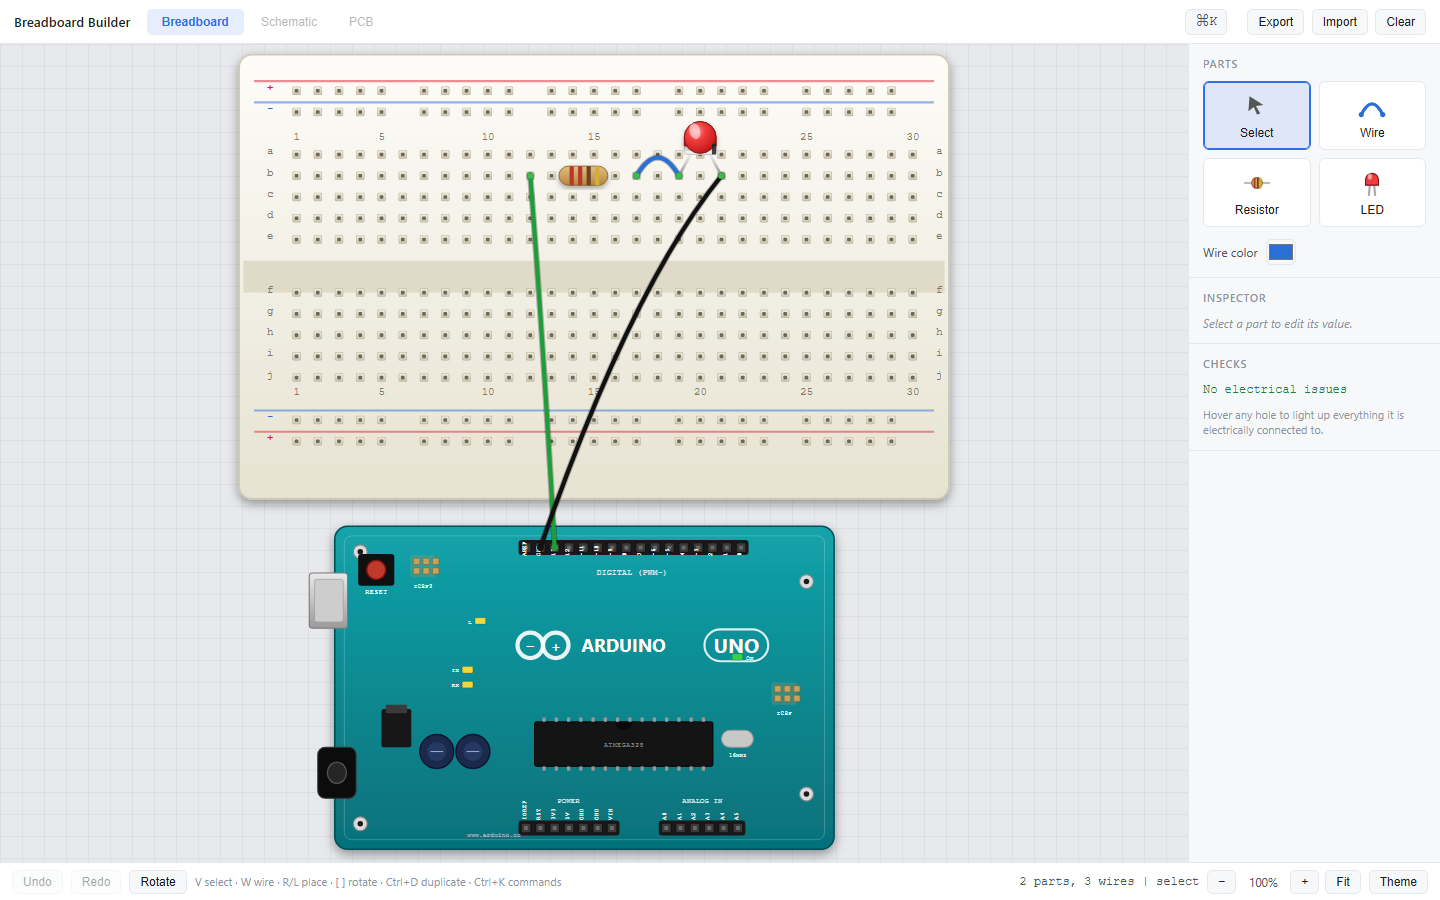
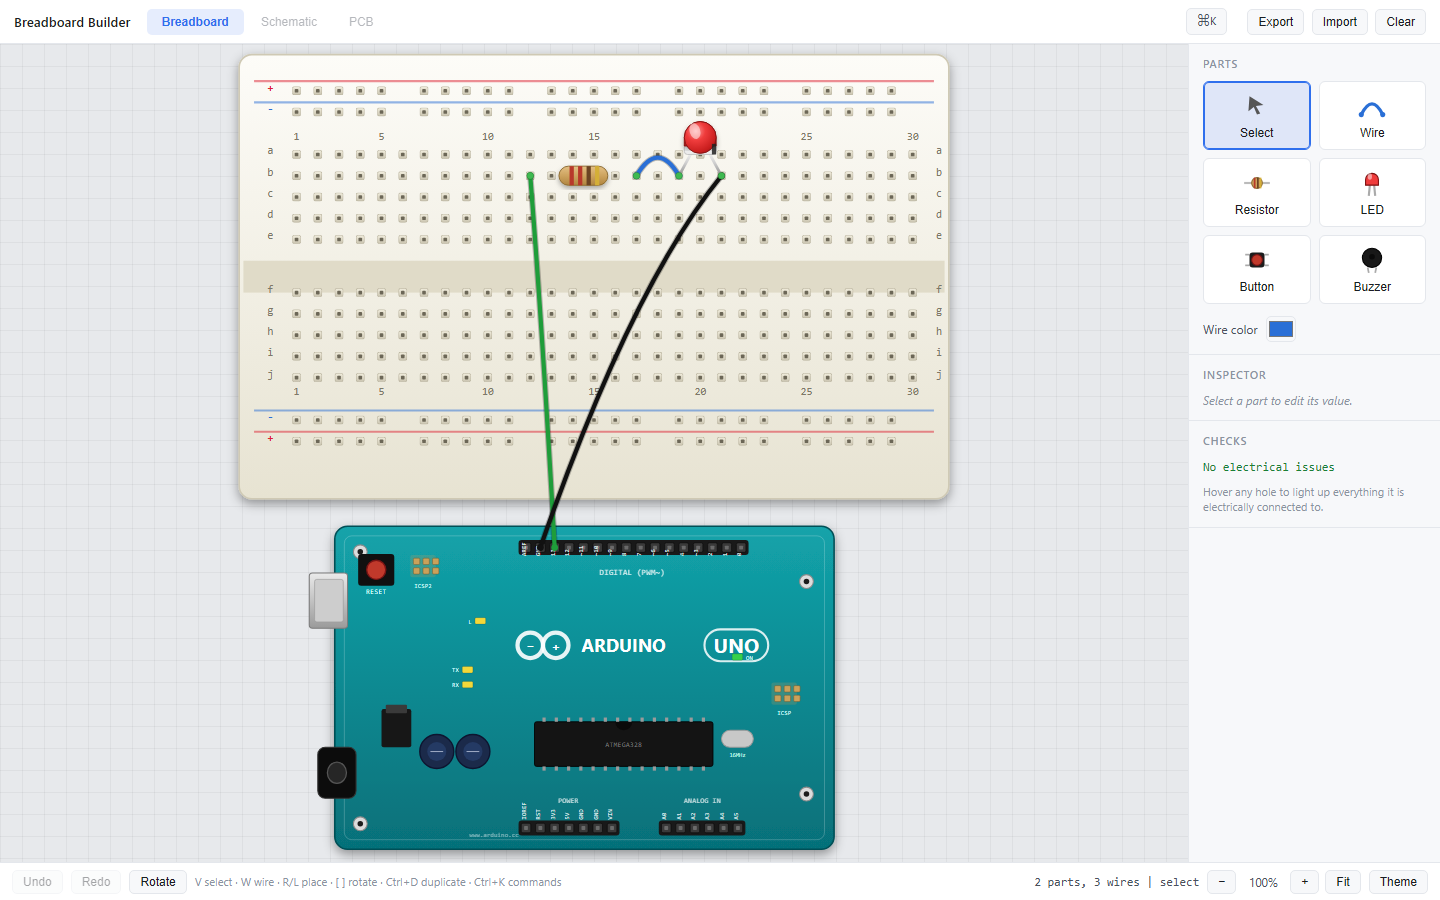
feat: N-leg parts (pushbutton + buzzer) + editable part labels
Generalizes the part model from hard-coded 2-leg to N legs, then adds the two
parts the build spec lists for a study tool, plus Fritzing-style part labels.

- N-leg architecture: a part declares legs as an array of {dc,dr} offsets from
  the anchor (rotated per placement). deriveLegs returns an array; validLegs,
  occupancy, drag, rotate, status dots, and net counting all loop over all legs.
  drawPartInto branches: axis parts (2-leg) keep the rotate-the-group draw; N-leg
  parts draw in board coords from their real leg positions (so the body follows
  the four holes, ravine included).
- Pushbutton: a 4-leg part drawn as a dark tactile switch with a red cap; its
  square body spans the four leg holes and rotates with them.
- Buzzer: a 2-leg black piezo cylinder with a + mark.
- Both wired into the bin (with icons), the B shortcut (button), and the command
  palette.
- Editable labels: every part auto-gets a label (R1, LED1, S1, BZ1), rendered
  above it on the canvas. The Inspector has a Name field to rename it live (the
  field is excluded from the inspector's rebuild signature so typing keeps focus).

Verified in a real browser: placing buzzer + button -> 4 parts, 10 connector
dots (the button shows 4), labels BZ1/LED1/R1/S1 auto-assigned, the button
rotates without error, and renaming a part to "MYBTN" updates the canvas live.
Zero console errors.

diff --git a/app.js b/app.js
@@ -218,22 +218,36 @@
   function occupied(holeId, exceptId) {
     return state.parts.some(function (p) { return p.id !== exceptId && p.legHoles.indexOf(holeId) >= 0; });
   }
+  function rotOffset(dc, dr, rot) {
+    if (rot === 1) return { dc: -dr, dr: dc };
+    if (rot === 2) return { dc: -dc, dr: -dr };
+    if (rot === 3) return { dc: dr, dr: -dc };
+    return { dc: dc, dr: dr };
+  }
   function deriveLegs(type, anchorHole, rot) {
     if (!anchorHole || anchorHole.rail) return null;
-    var span = PARTS[type].span, dc = 0, dr = 0;
-    if (rot === 0) dc = span; else if (rot === 2) dc = -span;
-    else if (rot === 1) dr = span; else if (rot === 3) dr = -span;
-    var ri = ROWS.indexOf(anchorHole.row) + dr;
-    if (ri < 0 || ri >= ROWS.length) return null;
-    var h2 = holeByCR(anchorHole.col + dc, ROWS[ri]);
-    if (!h2) return null;
-    return [anchorHole.id, h2.id];
+    var legs = PARTS[type].legs, out = [];
+    for (var i = 0; i < legs.length; i++) {
+      var o = rotOffset(legs[i].dc, legs[i].dr, rot);
+      var ri = ROWS.indexOf(anchorHole.row) + o.dr;
+      if (ri < 0 || ri >= ROWS.length) return null;
+      var h = holeByCR(anchorHole.col + o.dc, ROWS[ri]);
+      if (!h) return null;
+      out.push(h.id);
+    }
+    return out;
   }
   function validLegs(type, anchorHole, rot, exceptId) {
     var legs = deriveLegs(type, anchorHole, rot);
     if (!legs) return null;
-    if (occupied(legs[0], exceptId) || occupied(legs[1], exceptId)) return null;
+    for (var i = 0; i < legs.length; i++) if (occupied(legs[i], exceptId)) return null;
     return legs;
+  }
+  function nextLabel(type) {
+    var pre = (PARTS[type] && PARTS[type].prefix) || 'P', used = {};
+    state.parts.forEach(function (p) { if (p.label) used[p.label] = true; });
+    var n = 1; while (used[pre + n]) n++;
+    return pre + n;
   }
   function wirePath(x1, y1, x2, y2) {
     var mx = (x1 + x2) / 2, my = (y1 + y2) / 2 - Math.min(70, Math.abs(x2 - x1) * 0.3 + 22);
@@ -284,15 +298,20 @@
     applyView();
   }
   function drawPartInto(parent, type, legHoles, opts, extraAttrs) {
-    var h0 = holesById[legHoles[0]], h1 = holesById[legHoles[1]];
-    if (!h0 || !h1) return null;
-    var dx = h1.x - h0.x, dy = h1.y - h0.y;
-    var len = Math.sqrt(dx * dx + dy * dy);
-    var ang = Math.atan2(dy, dx) * 180 / Math.PI;
-    var attrs = Object.assign({ transform: 'translate(' + h0.x + ' ' + h0.y + ') rotate(' + ang + ')' }, extraAttrs || {});
-    var g = E('g', attrs, parent);
-    PARTS[type].draw(function (n, a) { return E(n, a, g); }, len, opts || {});
-    return g;
+    var def = PARTS[type];
+    var coords = legHoles.map(function (id) { return holesById[id]; });
+    for (var i = 0; i < coords.length; i++) if (!coords[i]) return null;
+    if (def.axis) {
+      var h0 = coords[0], h1 = coords[1];
+      var dx = h1.x - h0.x, dy = h1.y - h0.y;
+      var len = Math.sqrt(dx * dx + dy * dy), ang = Math.atan2(dy, dx) * 180 / Math.PI;
+      var g = E('g', Object.assign({ transform: 'translate(' + h0.x + ' ' + h0.y + ') rotate(' + ang + ')' }, extraAttrs || {}), parent);
+      def.draw(function (n, a) { return E(n, a, g); }, len, opts || {});
+      return g;
+    }
+    var g2 = E('g', extraAttrs || {}, parent);
+    def.draw(function (n, a) { return E(n, a, g2); }, coords, opts || {});
+    return g2;
   }
 
   // ---------- electrical nets (union-find over nodes + arduino pins) ----------
@@ -320,8 +339,9 @@
     var rm = [find('rail-top-minus'), find('rail-bot-minus')];
     if (rp.some(function (a) { return rm.indexOf(a) >= 0; })) issues.push('Power rails are shorted (+ tied to -).');
     state.parts.forEach(function (p) {
+      if (p.legHoles.length !== 2) return;
       var h0 = holesById[p.legHoles[0]], h1 = holesById[p.legHoles[1]];
-      if (h0 && h1 && h0.node === h1.node) issues.push(PARTS[p.type].label + ' is shorted (both legs on the same strip).');
+      if (h0 && h1 && h0.node === h1.node) issues.push((PARTS[p.type] ? PARTS[p.type].label : p.type) + ' is shorted (both legs on the same strip).');
     });
 
     // LED polarity / missing-resistor checks. Supply = + rails and 5V; ground =
@@ -349,9 +369,7 @@
     var netCount = {};
     function bumpNet(root) { netCount[root] = (netCount[root] || 0) + 1; }
     state.parts.forEach(function (p) {
-      var a = holesById[p.legHoles[0]], c = holesById[p.legHoles[1]];
-      if (a) bumpNet(find(a.node));
-      if (c) bumpNet(find(c.node));
+      p.legHoles.forEach(function (hid) { var h = holesById[hid]; if (h) bumpNet(find(h.node)); });
     });
     state.wires.forEach(function (w) {
       if (ardPins[w.from]) bumpNet(find(w.from));
@@ -418,11 +436,18 @@
             fill: 'none', stroke: '#3aa0ff', 'stroke-width': 1.5, 'stroke-dasharray': '5 3' }, g);
         } catch (_) {}
       }
-      [p.legHoles[0], p.legHoles[1]].forEach(function (hid) {
+      p.legHoles.forEach(function (hid) {
         var hh = holesById[hid]; if (!hh) return;
         var connected = (nets.netCount[nets.holeNet[hid]] || 0) >= 2;
         E('circle', { cx: hh.x, cy: hh.y, r: 3.3, fill: connected ? '#3fb950' : '#f85149', stroke: '#00000055', 'stroke-width': 0.5, 'pointer-events': 'none' }, partLayer);
       });
+      if (p.label && g) {
+        try {
+          var lb = g.getBBox();
+          var tt = E('text', { x: lb.x + lb.width / 2, y: lb.y - 5, 'text-anchor': 'middle', 'font-size': 10, 'font-family': 'ui-monospace, Menlo, monospace', fill: '#6c7682', 'pointer-events': 'none' }, partLayer);
+          tt.textContent = p.label;
+        } catch (_) {}
+      }
     });
 
     if (state.placing) {
@@ -472,6 +497,7 @@
     _inspSig = sig;
     if (!p) { el.innerHTML = '<div class="insp-empty">Select a part to edit its value.</div>'; return; }
     var h = '<div class="insp-title">' + PARTS[p.type].label + '</div>';
+    h += '<label>Name</label><input data-insp="label" type="text" value="' + (p.label || '') + '" maxlength="10">';
     if (p.type === 'resistor') {
       h += '<label>Resistance</label><select data-insp="value">';
       window.RES_VALUES.forEach(function (o) { h += '<option value="' + o.v + '"' + (o.v === (p.value || '220') ? ' selected' : '') + '>' + o.v + ' Ω</option>'; });
@@ -561,6 +587,7 @@
         pushHistory();
         var np = { id: state.nextId++, type: state.placing.type, anchor: legs[0], rot: state.placing.rot, legHoles: legs };
         var dd = PARTS[state.placing.type].defaults; if (dd) for (var dk in dd) np[dk] = dd[dk];
+        np.label = nextLabel(state.placing.type);
         state.parts.push(np);
         state.placing = null; document.body.classList.remove('placing'); setActiveAction('select'); state.tool = 'select';
         save(); render();
@@ -608,6 +635,7 @@
     if (k === 'w' || k === 'W') { chooseTool('wire'); return; }
     if (k === 'r' || k === 'R') { choosePlace('resistor'); return; }
     if (k === 'l' || k === 'L') { choosePlace('led'); return; }
+    if (k === 'b' || k === 'B') { choosePlace('button'); return; }
     if (k === ']' || k === '.') { rotateSelectedBy(1); return; }
     if (k === '[' || k === ',') { rotateSelectedBy(3); return; }
     if (k === 'Delete' || k === 'Backspace') {
@@ -661,6 +689,7 @@
         if (p.value != null) np.value = p.value;
         if (p.color != null) np.color = p.color;
         if (p.flip != null) np.flip = p.flip;
+        np.label = nextLabel(p.type);
         state.parts.push(np); state.sel = { kind: 'part', id: np.id }; save(); render();
         return;
       }
@@ -701,6 +730,11 @@
 
   var inspEl = document.getElementById('inspector');
   function inspPart() { return (state.sel && state.sel.kind === 'part') ? byId(state.sel.id) : null; }
+  inspEl.addEventListener('input', function (e) {
+    var el = e.target.closest('[data-insp]'); if (!el || el.getAttribute('data-insp') !== 'label') return;
+    var p = inspPart(); if (!p) return;
+    p.label = el.value; save(); render();
+  });
   inspEl.addEventListener('change', function (e) {
     var el = e.target.closest('[data-insp]'); if (!el) return;
     var p = inspPart(); if (!p) return;
@@ -725,6 +759,8 @@
     { name: 'Wire tool', key: 'W', run: function () { chooseTool('wire'); } },
     { name: 'Place resistor', key: 'R', run: function () { choosePlace('resistor'); } },
     { name: 'Place LED', key: 'L', run: function () { choosePlace('led'); } },
+    { name: 'Place button', key: 'B', run: function () { choosePlace('button'); } },
+    { name: 'Place buzzer', key: '', run: function () { choosePlace('buzzer'); } },
     { name: 'Rotate selection', key: '] / [', run: function () { rotateSelectedBy(1); } },
     { name: 'Duplicate selection', key: 'Ctrl D', run: duplicateSelected },
     { name: 'Undo', key: 'Ctrl Z', run: undo },
@@ -774,11 +810,12 @@
     var d = PARTS[p.type] && PARTS[p.type].defaults; if (d) for (var k in d) if (p[k] == null) p[k] = d[k];
     return p;
   }
-  function validPart(p) { return p.legHoles && PARTS[p.type] && holesById[p.legHoles[0]] && holesById[p.legHoles[1]]; }
+  function validPart(p) { return p.legHoles && PARTS[p.type] && p.legHoles.every(function (id) { return holesById[id]; }); }
   function snapshot() { return { version: 1, parts: state.parts, wires: state.wires, nextId: state.nextId }; }
   function save() { try { localStorage.setItem(KEY, JSON.stringify(snapshot())); } catch (_) {} }
   function adopt(o) {
     state.parts = (o.parts || []).map(normalizePart).filter(validPart);
+    state.parts.forEach(function (p) { if (!p.label) p.label = nextLabel(p.type); });
     state.wires = (o.wires || []).filter(function (w) { return connXY(w.from) && connXY(w.to); });
     state.nextId = o.nextId || (state.parts.length + state.wires.length + 10);
   }
@@ -827,6 +864,7 @@
       var legs = deriveLegs(type, anchor, 0); if (!legs) return null;
       var p = { id: state.nextId++, type: type, anchor: legs[0], rot: 0, legHoles: legs };
       var sd = PARTS[type].defaults; if (sd) for (var sk in sd) p[sk] = sd[sk];
+      p.label = nextLabel(type);
       state.parts.push(p);
     }
     part('resistor', 12, 'b');

diff --git a/parts.js b/parts.js
@@ -1,22 +1,25 @@
 // parts.js
-// Part definitions as DATA. Each part type declares its leg span, a realistic
-// draw(), and default editable properties. draw(mk, len, opts) paints in a LOCAL
-// frame: leg 1 at (0,0), leg 2 at (len,0). The app rotates the group, so one
-// draw() works at any angle.
+// Part definitions as DATA. Each part declares its legs (offsets from the anchor
+// hole, in column/row deltas at rotation 0), a label prefix, and a draw().
+//
+// Two draw styles:
+//   axis:true  -> 2-leg parts. draw(mk, len, opts) in a local frame the app
+//                 rotates (leg 1 at 0,0, leg 2 at len,0).
+//   axis:false -> N-leg parts. draw(mk, legCoords, opts) in board coords
+//                 (legCoords = [{x,y}, ...] of every leg hole).
 
 (function (root) {
   'use strict';
 
-  // resistor presets: value label -> real 4-band color code
   var RES_VALUES = [
-    { v: '220',  bands: ['#b8392b', '#b8392b', '#6b4423', '#d4af37'] }, // red red brown gold
-    { v: '330',  bands: ['#e08a1e', '#e08a1e', '#6b4423', '#d4af37'] }, // orange orange brown
-    { v: '470',  bands: ['#e6d21e', '#7b3fb0', '#6b4423', '#d4af37'] }, // yellow violet brown
-    { v: '1k',   bands: ['#6b4423', '#161616', '#b8392b', '#d4af37'] }, // brown black red
-    { v: '2.2k', bands: ['#b8392b', '#b8392b', '#b8392b', '#d4af37'] }, // red red red
-    { v: '4.7k', bands: ['#e6d21e', '#7b3fb0', '#b8392b', '#d4af37'] }, // yellow violet red
-    { v: '10k',  bands: ['#6b4423', '#161616', '#e08a1e', '#d4af37'] }, // brown black orange
-    { v: '100k', bands: ['#6b4423', '#161616', '#e6d21e', '#d4af37'] }  // brown black yellow
+    { v: '220',  bands: ['#b8392b', '#b8392b', '#6b4423', '#d4af37'] },
+    { v: '330',  bands: ['#e08a1e', '#e08a1e', '#6b4423', '#d4af37'] },
+    { v: '470',  bands: ['#e6d21e', '#7b3fb0', '#6b4423', '#d4af37'] },
+    { v: '1k',   bands: ['#6b4423', '#161616', '#b8392b', '#d4af37'] },
+    { v: '2.2k', bands: ['#b8392b', '#b8392b', '#b8392b', '#d4af37'] },
+    { v: '4.7k', bands: ['#e6d21e', '#7b3fb0', '#b8392b', '#d4af37'] },
+    { v: '10k',  bands: ['#6b4423', '#161616', '#e08a1e', '#d4af37'] },
+    { v: '100k', bands: ['#6b4423', '#161616', '#e6d21e', '#d4af37'] }
   ];
   function resistorBands(v) {
     for (var i = 0; i < RES_VALUES.length; i++) if (RES_VALUES[i].v === v) return RES_VALUES[i].bands;
@@ -45,7 +48,6 @@
     mk('circle', { cx: mx, cy: domeCy, r: 15, fill: 'url(#' + meta.grad + ')', stroke: meta.stroke, 'stroke-width': 0.8 });
     mk('ellipse', { cx: mx - 5, cy: domeCy - 6, rx: 5, ry: 7.5, fill: '#ffffff', opacity: 0.5,
       transform: 'rotate(-18 ' + (mx - 5) + ' ' + (domeCy - 6) + ')' });
-    // cathode (the flat / minus side) marker. cathode leg is local x=len unless flipped.
     var cathodeRight = !flip;
     mk('rect', { x: cathodeRight ? (mx + 11) : (mx - 15), y: baseY - 6, width: 4, height: 10, fill: '#222', opacity: 0.85 });
   }
@@ -62,9 +64,38 @@
     bands.forEach(function (c, i) { mk('rect', { x: bs + 10 + i * 8, y: -bh / 2, width: 4, height: bh, fill: c }); });
   }
 
+  function drawBuzzer(mk, len, opts) {
+    var mx = len / 2, r = 17, cy = -2 - r;
+    mk('line', { x1: 0, y1: 0, x2: mx, y2: cy + r, stroke: 'url(#metalGrad)', 'stroke-width': 2.4, 'stroke-linecap': 'round' });
+    mk('line', { x1: len, y1: 0, x2: mx, y2: cy + r, stroke: 'url(#metalGrad)', 'stroke-width': 2.4, 'stroke-linecap': 'round' });
+    mk('circle', { cx: mx, cy: cy, r: r, fill: '#181818', stroke: '#000', 'stroke-width': 1, filter: 'url(#soft)' });
+    mk('circle', { cx: mx, cy: cy, r: r - 3, fill: '#242424' });
+    mk('circle', { cx: mx, cy: cy - 1, r: 3.5, fill: '#0a0a0a' });
+    // small "+" near the first leg
+    mk('line', { x1: 7, y1: -9, x2: 7, y2: -3, stroke: '#ddd', 'stroke-width': 1.4 });
+    mk('line', { x1: 4, y1: -6, x2: 10, y2: -6, stroke: '#ddd', 'stroke-width': 1.4 });
+  }
+
+  function drawButton(mk, coords, opts) {
+    var xs = coords.map(function (c) { return c.x; }), ys = coords.map(function (c) { return c.y; });
+    var minX = Math.min.apply(null, xs), maxX = Math.max.apply(null, xs);
+    var minY = Math.min.apply(null, ys), maxY = Math.max.apply(null, ys);
+    var cx = (minX + maxX) / 2, cy = (minY + maxY) / 2;
+    coords.forEach(function (c) {
+      mk('line', { x1: c.x, y1: c.y, x2: c.x + (cx - c.x) * 0.42, y2: c.y + (cy - c.y) * 0.42, stroke: 'url(#metalGrad)', 'stroke-width': 2.2, 'stroke-linecap': 'round' });
+    });
+    var bw = (maxX - minX) - 6, bh = (maxY - minY) - 6;
+    mk('rect', { x: minX + 3, y: minY + 3, width: bw, height: bh, rx: 4, fill: '#1d1d1d', stroke: '#000', 'stroke-width': 1, filter: 'url(#soft)' });
+    var br = Math.min(bw, bh) * 0.32;
+    mk('circle', { cx: cx, cy: cy, r: br, fill: '#c0392b', stroke: '#7a1414', 'stroke-width': 1.2 });
+    mk('circle', { cx: cx - br * 0.3, cy: cy - br * 0.3, r: br * 0.42, fill: '#e06a5a', opacity: 0.5 });
+  }
+
   root.PARTS = {
-    led: { label: 'LED', span: 2, draw: drawLED, defaults: { color: 'red', flip: false } },
-    resistor: { label: 'Resistor', span: 5, draw: drawResistor, defaults: { value: '220' } }
+    led:      { label: 'LED',      prefix: 'LED', axis: true,  legs: [{ dc: 0, dr: 0 }, { dc: 2, dr: 0 }], draw: drawLED,      defaults: { color: 'red', flip: false } },
+    resistor: { label: 'Resistor', prefix: 'R',   axis: true,  legs: [{ dc: 0, dr: 0 }, { dc: 5, dr: 0 }], draw: drawResistor, defaults: { value: '220' } },
+    buzzer:   { label: 'Buzzer',   prefix: 'BZ',  axis: true,  legs: [{ dc: 0, dr: 0 }, { dc: 2, dr: 0 }], draw: drawBuzzer,   defaults: {} },
+    button:   { label: 'Button',   prefix: 'S',   axis: false, legs: [{ dc: 0, dr: 0 }, { dc: 2, dr: 0 }, { dc: 0, dr: 2 }, { dc: 2, dr: 2 }], draw: drawButton, defaults: {} }
   };
   root.RES_VALUES = RES_VALUES;
   root.LED_COLORS = LED_COLORS;

diff --git a/index.html b/index.html
@@ -105,6 +105,14 @@
             <svg viewBox="0 0 28 28" class="bin-ic"><line x1="11" y1="26" x2="12" y2="16" stroke="#aaa" stroke-width="2"/><line x1="17" y1="26" x2="16" y2="16" stroke="#aaa" stroke-width="2"/><path d="M8 16 L8 11 A6 6 0 0 1 20 11 L20 16 Z" fill="#ef3c3c" stroke="#7c1010"/><ellipse cx="12" cy="8" rx="2" ry="3" fill="#fff" opacity="0.5"/></svg>
             <span>LED</span>
           </button>
+          <button class="bin-item tool" data-action="place" data-part="button" title="Place a pushbutton (B)">
+            <svg viewBox="0 0 28 28" class="bin-ic"><line x1="3" y1="9" x2="7" y2="9" stroke="#aaa" stroke-width="1.6"/><line x1="3" y1="19" x2="7" y2="19" stroke="#aaa" stroke-width="1.6"/><line x1="21" y1="9" x2="25" y2="9" stroke="#aaa" stroke-width="1.6"/><line x1="21" y1="19" x2="25" y2="19" stroke="#aaa" stroke-width="1.6"/><rect x="7" y="7" width="14" height="14" rx="3" fill="#1d1d1d"/><circle cx="14" cy="14" r="5" fill="#c0392b" stroke="#7a1414"/></svg>
+            <span>Button</span>
+          </button>
+          <button class="bin-item tool" data-action="place" data-part="buzzer" title="Place a buzzer">
+            <svg viewBox="0 0 28 28" class="bin-ic"><line x1="10" y1="21" x2="11" y2="26" stroke="#aaa" stroke-width="1.6"/><line x1="18" y1="21" x2="17" y2="26" stroke="#aaa" stroke-width="1.6"/><circle cx="14" cy="12" r="9" fill="#181818" stroke="#000"/><circle cx="14" cy="11" r="2.6" fill="#0a0a0a"/></svg>
+            <span>Buzzer</span>
+          </button>
         </div>
         <label class="wirecolor">Wire color <input type="color" id="wireColor" value="#2a6fd6"></label>
       </section>

diff --git a/style.css b/style.css
@@ -127,10 +127,11 @@ body.wiring #board { cursor: crosshair; }
 .insp-empty { color: var(--text-3); font-size: 12px; font-style: italic; }
 .inspector-body .insp-title { font-size: 13px; font-weight: 600; margin-bottom: 8px; }
 .inspector-body label { display: block; font-size: 11px; color: var(--text-3); margin: 8px 0 3px; }
-.inspector-body select {
+.inspector-body select, .inspector-body input[type="text"] {
   width: 100%; font-size: 13px; padding: 5px 6px; border-radius: 5px;
   background: var(--surface-2); color: var(--text-1); border: 1px solid var(--border);
 }
+.inspector-body input[type="text"]:focus { outline: none; border-color: var(--accent); }
 .inspector-body button {
   margin-top: 8px; font-size: 12px; padding: 5px 10px; border-radius: 5px;
   border: 1px solid var(--border); background: var(--surface-2); color: var(--text-1); cursor: pointer;